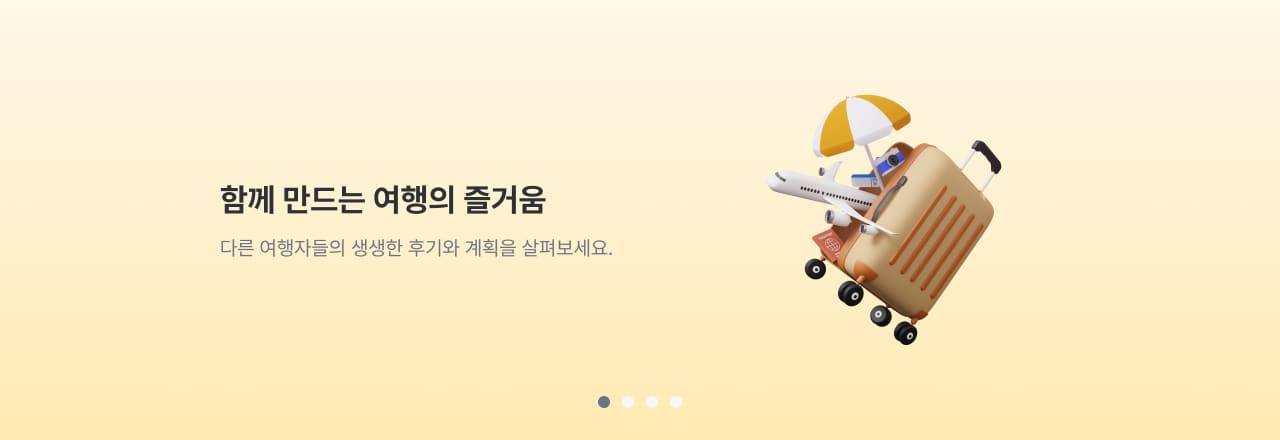
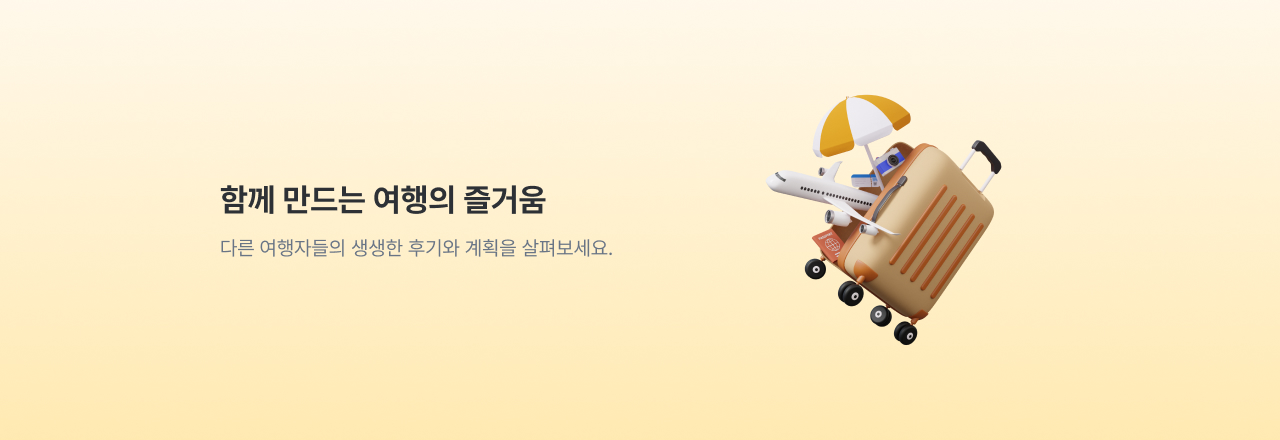
feat: 캐러셀 이미지 변경 및 홈화면에 적용

diff --git a/src/styles/custom.css b/src/styles/custom.css
@@ -2,53 +2,55 @@
 @tailwind components;
 @tailwind utilities;
 
-.tab-bar-ul {
-  @apply flex justify-start gap-10;
-}
+@layer utilities {
+  .tab-bar-ul {
+    @apply flex justify-start gap-10;
+  }
 
-.tab-bar-li {
-  @apply flex w-max flex-col gap-2;
-}
+  .tab-bar-li {
+    @apply flex w-max flex-col gap-2;
+  }
 
-.tab-bar-li-vertical-M {
-  @apply font-tab-1 flex w-max flex-col gap-1;
-}
+  .tab-bar-li-vertical-M {
+    @apply font-tab-1 flex w-max flex-col gap-1;
+  }
 
-.tab-bar-li-vertical-L {
-  @apply font-tab-2 flex w-max flex-col gap-2;
-}
+  .tab-bar-li-vertical-L {
+    @apply font-tab-2 flex w-max flex-col gap-2;
+  }
 
-.tab-bar-button {
-  @apply font-tab-3 flex text-gray-01;
-}
+  .tab-bar-button {
+    @apply font-tab-3 flex text-gray-01;
+  }
 
-.tab-bar-button-active {
-  @apply text-black-01;
-}
+  .tab-bar-button-active {
+    @apply text-black-01;
+  }
 
-.tab-bar-hr {
-  @apply border-[1.4px];
-}
-.tab-bar-hr-vertical {
-  @apply border;
-}
+  .tab-bar-hr {
+    @apply border-[1.4px];
+  }
+  .tab-bar-hr-vertical {
+    @apply border;
+  }
 
-.tab-bar-hr-active {
-  @apply border-black-01;
-}
+  .tab-bar-hr-active {
+    @apply border-black-01;
+  }
 
-.tab-bar-hr {
-  @apply opacity-0;
-}
+  .tab-bar-hr {
+    @apply opacity-0;
+  }
 
-.embla {
-  @apply h-96 w-full overflow-hidden;
-}
+  .embla {
+    @apply h-96 w-full overflow-hidden;
+  }
 
-.embla__container {
-  @apply flex h-96;
-}
+  .embla__container {
+    @apply flex h-96;
+  }
 
-.embla__slide {
-  @apply relative h-96 w-full flex-none;
+  .embla__slide {
+    @apply relative h-96 w-full flex-none;
+  }
 }

diff --git a/src/app/(dashboard)/page.tsx b/src/app/(dashboard)/page.tsx
@@ -1,5 +1,34 @@
 /* eslint-disable max-len */
 
+'use client';
+
+import { EmblaOptionsType } from 'embla-carousel';
+
+import Carousel from '@/components/carousel/Carousel';
+import heroL1 from '@/images/heroL1.jpg';
+import heroL2 from '@/images/heroL2.jpg';
+import heroL3 from '@/images/heroL3.jpg';
+import heroM1 from '@/images/heroM1.jpg';
+import heroM2 from '@/images/heroM2.jpg';
+import heroM3 from '@/images/heroM3.jpg';
+import heroS1 from '@/images/heroS1.jpg';
+import heroS2 from '@/images/heroS2.jpg';
+import heroS3 from '@/images/heroS3.jpg';
+import useMediaQuery from '@/libs/hooks/useMediaQuery';
+
+const OPTIONS: EmblaOptionsType = { loop: true };
+
 export default function Home() {
-  return <div>Page</div>;
+  let SLIDES = [heroL1, heroL2, heroL3];
+  const isDesktop = useMediaQuery('(min-width: 1024px)');
+  const isTablet = useMediaQuery('(min-width: 768px) and (max-width: 1023px)');
+  const isMobile = !isTablet && !isDesktop;
+  if (isTablet) {
+    SLIDES = [heroM1, heroM2, heroM3];
+  }
+  if (isMobile) {
+    SLIDES = [heroS1, heroS2, heroS3];
+  }
+
+  return <Carousel slides={SLIDES} options={OPTIONS} />;
 }

diff --git a/src/components/common/GNB.tsx b/src/components/common/GNB.tsx
@@ -3,7 +3,7 @@ import Image from 'next/image';
 import Link from 'next/link';
 
 import LogoSvg from '@/icons/logo.svg';
-import ProfileDefault from '@/icons/profile-default.svg';
+import ProfileDefault from '@/icons/profile-default.svg?url';
 import SearchSvg from '@/icons/search.svg';
 
 export default function GNB() {
@@ -37,7 +37,7 @@ export default function GNB() {
         {!hasCookie && (
           <Link href="/login">
             <li>
-              <ProfileDefault width={36} height={36} />
+              <Image src={ProfileDefault} width={36} height={36} alt="profileDefault Image" />
             </li>
           </Link>
         )}

diff --git a/src/components/carousel/Carousel.tsx b/src/components/carousel/Carousel.tsx
@@ -12,7 +12,7 @@ type PropType = {
   slides: StaticImageData[];
   options?: CarouselOptions;
 };
-const EmblaCarousel = (props: PropType) => {
+export default function Carousel(props: PropType) {
   const { slides, options } = props;
   const [emblaRef, emblaApi] = useEmblaCarousel({ loop: true }, [Autoplay({ delay: 4000 })]);
 
@@ -27,6 +27,4 @@ const EmblaCarousel = (props: PropType) => {
       </div>
     </div>
   );
-};
-
-export default EmblaCarousel;
+}

diff --git a/src/components/TabBar.tsx b/src/components/TabBar.tsx
@@ -10,7 +10,6 @@
 import { useState } from 'react';
 
 import classNames from 'classnames';
-import '@/styles/custom.css';
 
 /**
  * Props for the TabBar component.

diff --git a/src/styles/globals.css b/src/styles/globals.css
@@ -1,6 +1,7 @@
 @tailwind base;
 @tailwind components;
 @tailwind utilities;
+@import '@/styles/custom.css';
 
 /* css reset */
 body {
